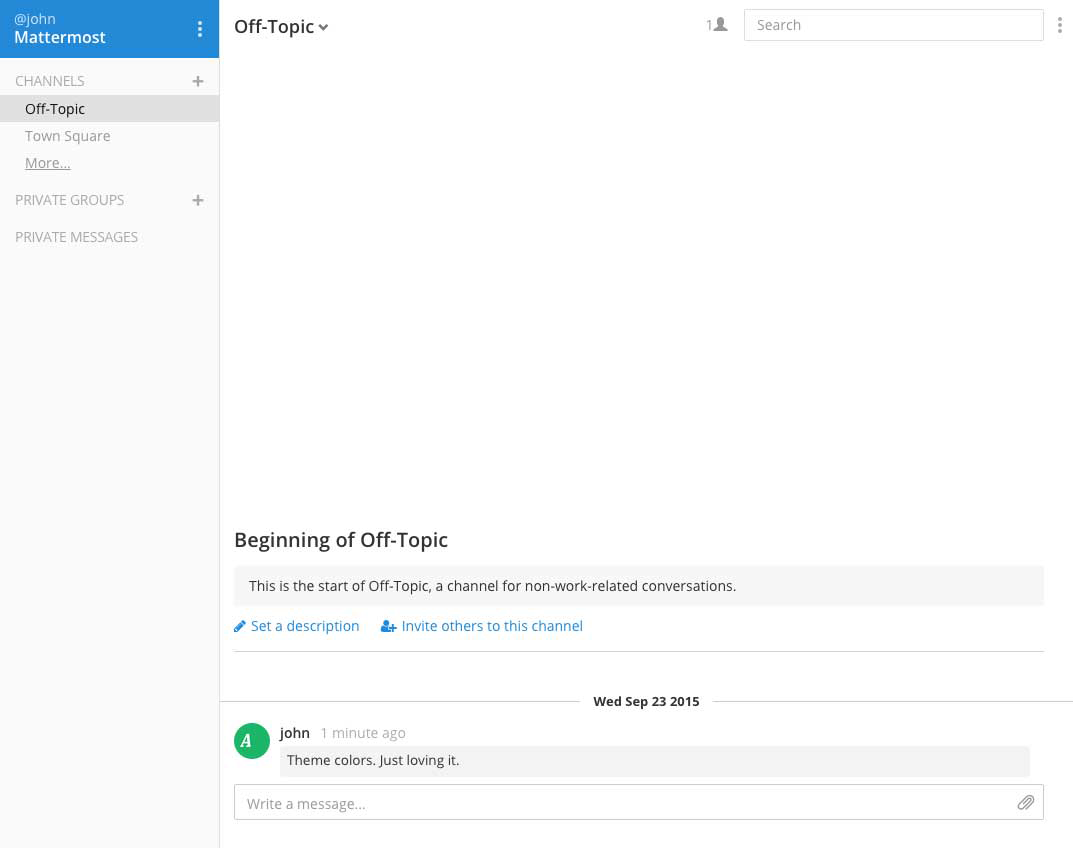
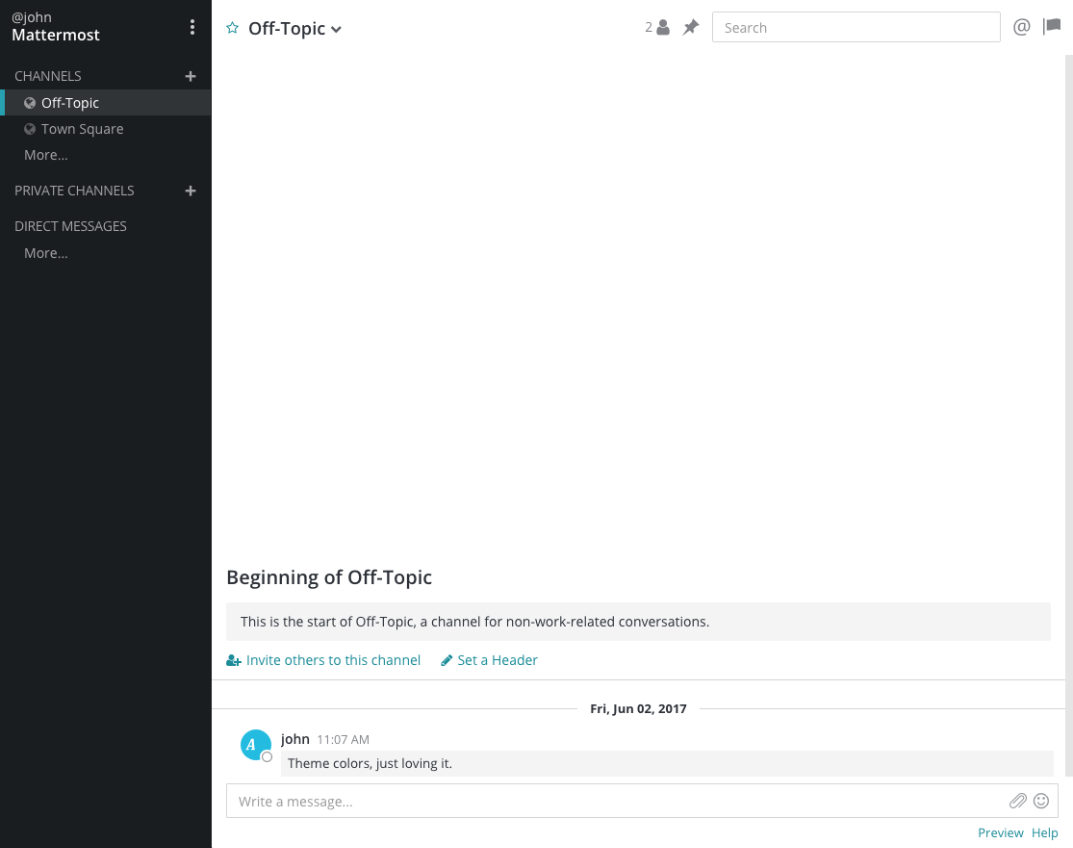
Multiple Ui improvements (#6553)
* PLT-6729 - Fixing close button

* PLT-5216 - Updating mattermost theme

* PLT-6679 - Fixing styling for active state

diff --git a/utils/constants.jsx b/utils/constants.jsx
@@ -481,28 +481,28 @@ export const Constants = {
         },
         mattermost: {
             type: 'Mattermost',
-            sidebarBg: '#fafafa',
-            sidebarText: '#333333',
-            sidebarUnreadText: '#333333',
-            sidebarTextHoverBg: '#e6f2fa',
-            sidebarTextActiveBorder: '#378FD2',
-            sidebarTextActiveColor: '#111111',
-            sidebarHeaderBg: '#3481B9',
+            sidebarBg: '#1a1d1f',
+            sidebarText: '#ffffff',
+            sidebarUnreadText: '#e8e8e8',
+            sidebarTextHoverBg: '#525252',
+            sidebarTextActiveBorder: '#27a1b2',
+            sidebarTextActiveColor: '#ffffff',
+            sidebarHeaderBg: '#1a1d1f',
             sidebarHeaderTextColor: '#ffffff',
-            onlineIndicator: '#7DBE00',
-            awayIndicator: '#DCBD4E',
-            mentionBj: '#2389d7',
+            onlineIndicator: '#1fc1d9',
+            awayIndicator: '#c4c492',
+            mentionBj: '#ba3939',
             mentionColor: '#ffffff',
             centerChannelBg: '#ffffff',
-            centerChannelColor: '#333333',
-            newMessageSeparator: '#FF8800',
-            linkColor: '#2389d7',
-            buttonBg: '#23A2FF',
+            centerChannelColor: '#2d3138',
+            newMessageSeparator: '#1c8c99',
+            linkColor: '#1c8c99',
+            buttonBg: '#27a1b2',
             buttonColor: '#FFFFFF',
-            errorTextColor: '#a94442',
-            mentionHighlightBg: '#f3e197',
-            mentionHighlightLink: '#2f81b7',
-            codeTheme: 'github',
+            errorTextColor: '#cc2d2d',
+            mentionHighlightBg: '#1c8c99',
+            mentionHighlightLink: '#ffffff',
+            codeTheme: 'monokai',
             image: mattermostThemeImage
         },
         mattermostDark: {

diff --git a/utils/utils.jsx b/utils/utils.jsx
@@ -697,9 +697,9 @@ export function applyTheme(theme) {
     }
 
     if (theme.linkColor) {
-        changeCss('.app__body a, .app__body a:focus, .app__body a:hover, .app__body .btn, .app__body .btn:focus, .app__body .btn:hover, .app__body .channel-header #member_popover:hover', 'color:' + theme.linkColor);
+        changeCss('.app__body .channel-header__links > a.active, .app__body a, .app__body a:focus, .app__body a:hover, .app__body .btn, .app__body .btn:focus, .app__body .btn:hover, .app__body .channel-header #member_popover:hover', 'color:' + theme.linkColor);
         changeCss('.app__body .attachment .attachment__container', 'border-left-color:' + changeOpacity(theme.linkColor, 0.5));
-        changeCss('.app__body .channel-header__links .icon:hover, .app__body .post .flag-icon__container.visible, .app__body .post .reacticon__container, .app__body .post .comment-icon__container, .app__body .post .post__reply', 'fill:' + theme.linkColor);
+        changeCss('.app__body .channel-header__links .icon:hover, .app__body .channel-header__links > a.active .icon, .app__body .post .flag-icon__container.visible, .app__body .post .reacticon__container, .app__body .post .comment-icon__container, .app__body .post .post__reply', 'fill:' + theme.linkColor);
         changeCss('.app__body .channel-header__links .icon:hover, .app__body .post .flag-icon__container.visible, .app__body .post .comment-icon__container, .app__body .post .post__reply, .app__body .channel-header .pinned-posts-button:hover svg', 'fill:' + theme.linkColor);
         changeCss('.app__body .post-reaction.post-reaction--current-user', 'background:' + changeOpacity(theme.linkColor, 0.1));
         changeCss('.app__body .post-reaction.post-reaction--current-user', 'border-color:' + changeOpacity(theme.linkColor, 0.4));

diff --git a/sass/components/_modal.scss b/sass/components/_modal.scss
@@ -213,12 +213,16 @@
                 line-height: 30px;
                 position: absolute;
                 right: 10px;
+                text-shadow: none;
                 width: 30px;
                 z-index: 5;
-                text-shadow: none;
 
                 &:hover {
                     @include alpha-property(background, $black, .1);
+                }
+
+                .sr-only {
+                    display: none;
                 }
 
                 span {
